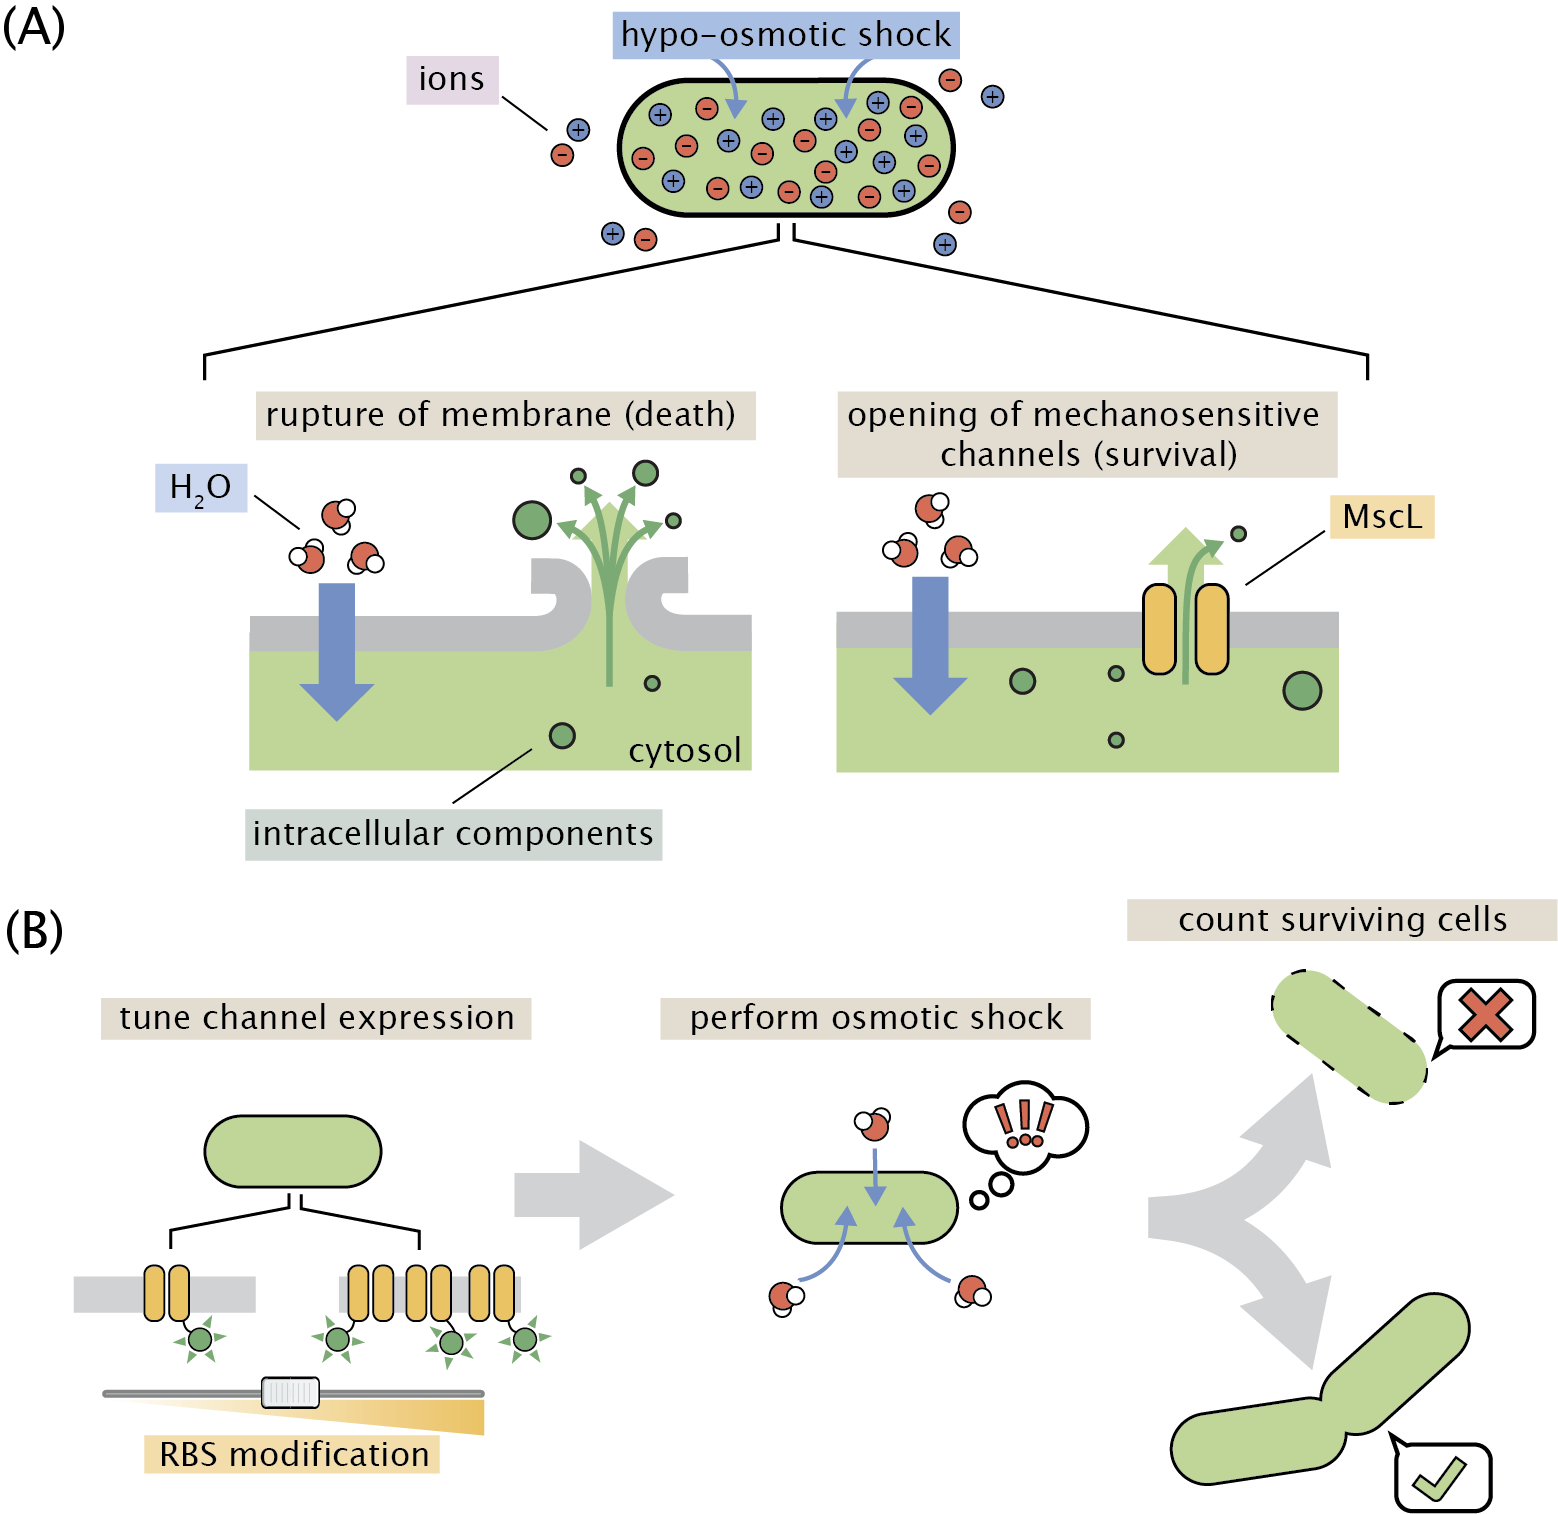
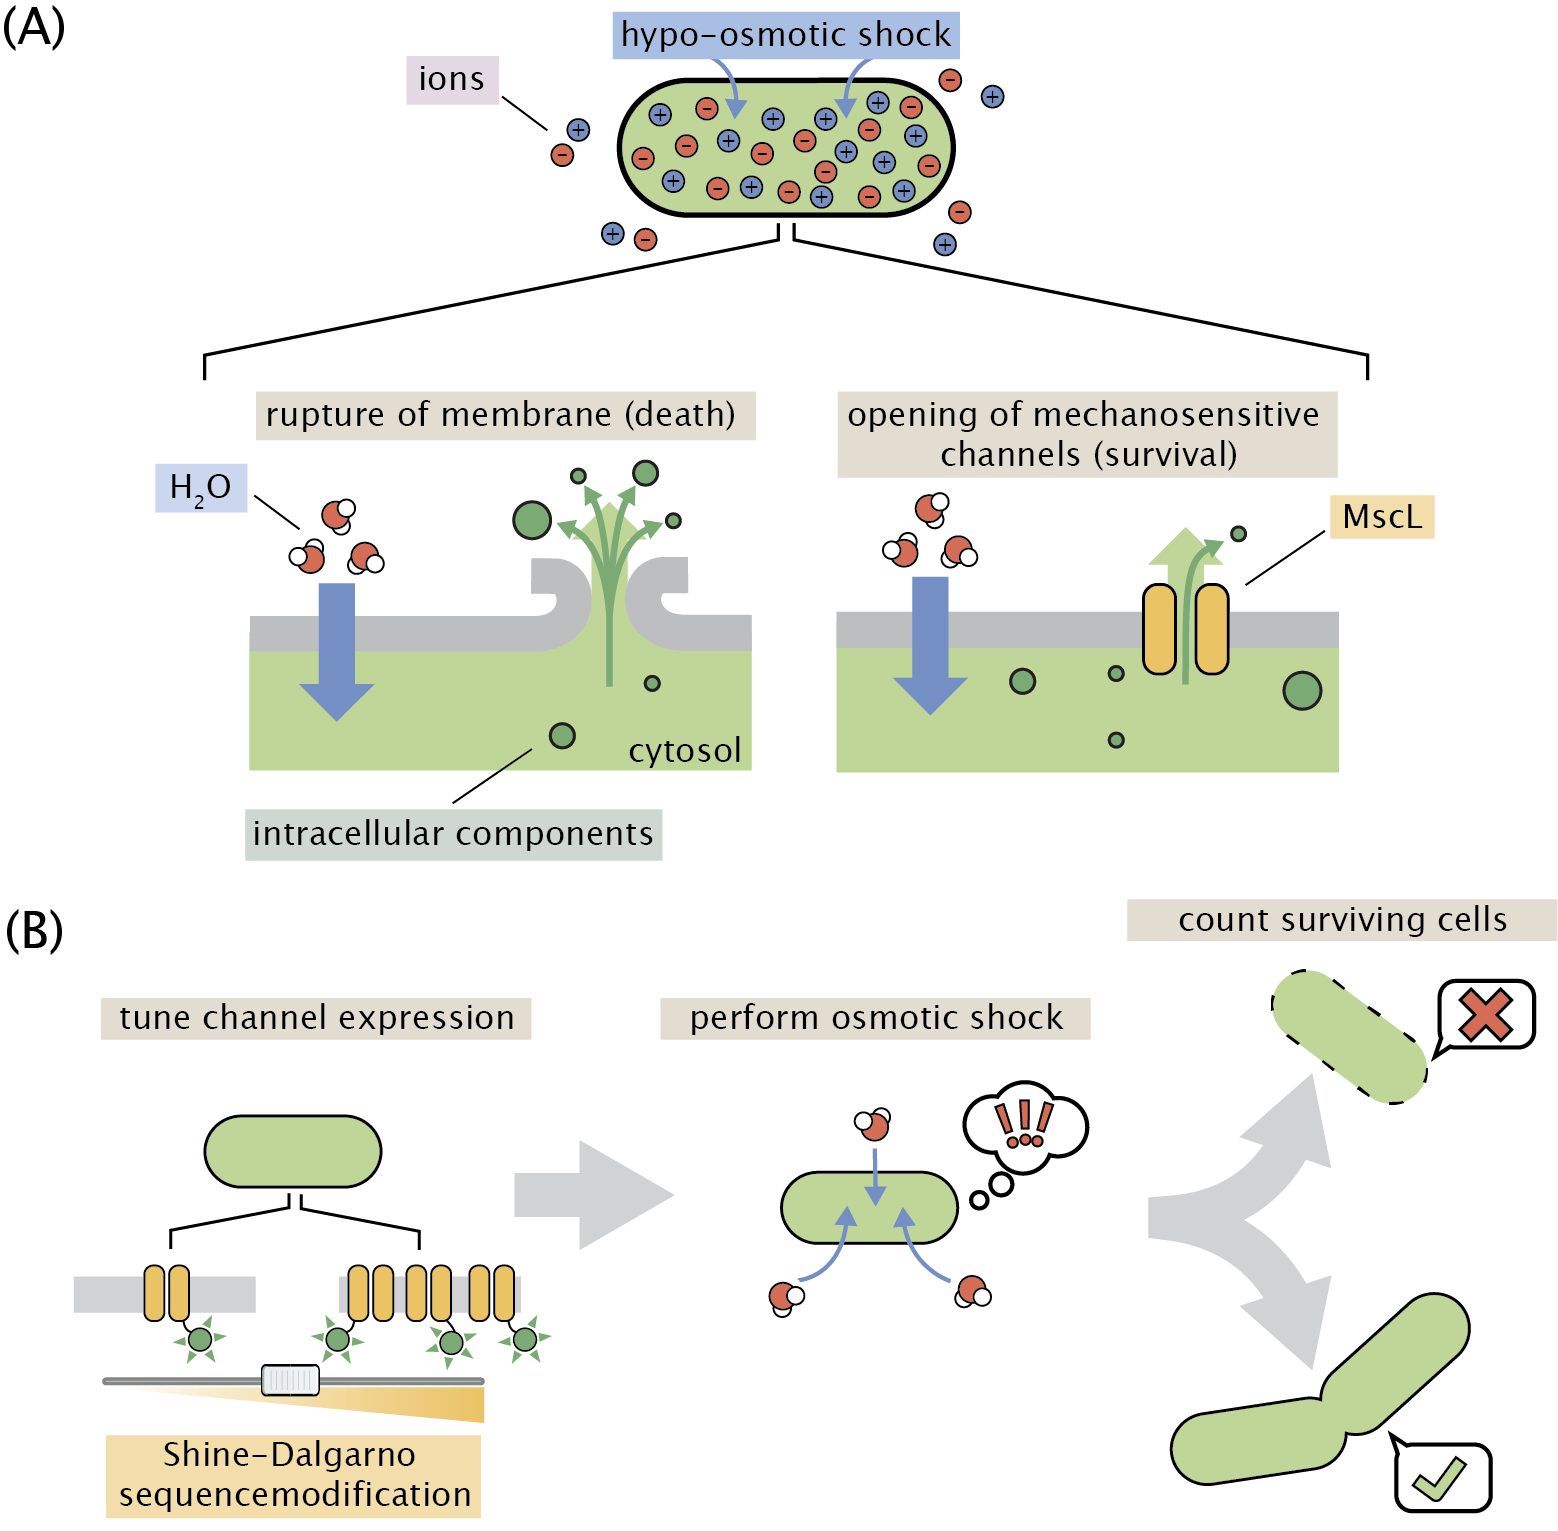
Final draft

diff --git a/doc/section_3_results.md b/doc/section_3_results.md
@@ -1,4 +1,4 @@
-## RESULTS ##
+## Results
 
 ### Quantifying the single-cell MscL copy number ###
 
@@ -20,14 +20,14 @@ in wild-type cells from our measurements. [@bialecka-fornal2012;
 @norman2005].
 
 &nbsp;&nbsp;&nbsp;&nbsp;To modulate the number of MscL channels per cell, we
-developed a series of Shine-Dalgarno sequence mutants which were
+developed a series of mutants which were
 designed to decrease the expression relative to wild-type. These
 changes involved direct alterations of the Shine-Dalgarno sequence as well as the
 inclusion of AT hairpins of varying length directly upstream of the start
-codon ([@Fig:boxplot]A). The six SD sequences used in this work were chosen using the RBS
+codon ([@Fig:boxplot]A). The six Shine-Dalgarno sequences used in this work were chosen using the RBS
 binding site strength calculator from the Salis Laboratory at the
 Pennsylvania State University [@espahborujeni2014;
-@salis2009]. While the designed SD sequence mutations decreased the
+@salis2009]. While the designed Shine-Dalgarno sequence mutations decreased the
 expression relative to wild-type as intended, the distribution of expression is
 remarkably wide spanning an order of magnitude.
 
@@ -60,7 +60,7 @@ remarkably wide spanning an order of magnitude.
  strains is complicated by distorted cell morphology. We observed that as the
  channel copy number decreases, cellular morphology becomes increasingly
  aberrant with filamentous, bulging, and branched cells become markedly
- abundant (Fig S3A). This morphological defect has been observed when
+ abundant (Fig. S3A). This morphological defect has been observed when
  altering the abundance of several species of mechanosensitive channels,
  suggesting that they play an important role in general architectural
  stability [@bialecka-fornal2012; @bialecka-fornal2015]. As these aberrant morphologies can vary
@@ -68,16 +68,16 @@ remarkably wide spanning an order of magnitude.
  becomes a more nuanced endeavor. For example, taking the total MscL copy number for
  these cells could skew the final calculation of survival probability as a
  large but severely distorted cell would be interpreted as having more
- channels than a smaller, wild-type shaped cell (Fig. S2B). To correct for this
+ channels than a smaller, wild-type shaped cell (Fig. S3B). To correct for this
  pathology, we computed the average expression level per unit area for each
  cell and multiplied this by the average cellular area of our standard candle
  strain which is morphologically indistinguishable from wild-type *E. coli*,
  allowing for the calculation of an effective channel copy number. The effect
- of this correction can be seen in Fig S4C and D, which illustrate that
+ of this correction can be seen in Fig. S3C and D, which illustrate that
  there is no other correlation between cell area and channel expression.
 
 &nbsp;&nbsp;&nbsp;&nbsp;Our calculation of the effective channel copy number
-for our suite of SD mutants is shown in [@Fig:boxplot]B. The expression of
+for our suite of Shine-Dalgarno mutants is shown in [@Fig:boxplot]B. The expression of
 these strains cover nearly three orders of magnitude with the extremes
 ranging from approximately four channels per cell to nearly one thousand.
 While the means of each strain are somewhat distinct, the distributions show
@@ -87,7 +87,7 @@ the context of bulk scale experiments but can be accounted for via
 single-cell methods.
 
 ![**Control of MscL expression and calculation of channel
-copy number.** (A) Schematic view the expression modifications performed in this work. The beginning portion of the native *mscL* sequence is shown with the Shine-Dalgarno sequence, spacer region, and start code shaded in red, green, and blue, respectively. The Shine-Dalgarno sequence was modified through the Salis lab Ribosomal Binding Strength calculator [@espahborujeni2014; @salis2009]. The wild-type sequence (MLG910) is shown in black with mutations for the other five RBS mutants highlighted in red. Expression was further modified by the insertion of repetitive `AT` bases into the spacer region, generating hairpins of varying length which acted as a thermodynamic barrier for translation initiation. (B) Variability in effective channel copy number is computed using the
+copy number.** (A) Schematic view the expression modifications performed in this work. The beginning portion of the native *mscL* sequence is shown with the Shine-Dalgarno sequence, spacer region, and start code shaded in red, green, and blue, respectively. The Shine-Dalgarno sequence was modified through the Salis lab Ribosomal Binding Strength calculator [@espahborujeni2014; @salis2009]. The wild-type sequence (MLG910) is shown in black with mutations for the other four Shine-Dalgarno mutants highlighted in red. Expression was further modified by the insertion of repetitive `AT` bases into the spacer region, generating hairpins of varying length which acted as a thermodynamic barrier for translation initiation. (B) Variability in effective channel copy number is computed using the
 standard candle. The boxes represent the interquartile region of the
 distribution, the center line displays the median, and the whiskers
 represent 1.5 times the maximum and minimum of the interquartile region.
@@ -103,8 +103,8 @@ calibration of channel copy number (MLG910) is highlighted in yellow. ](../figs/
  device has been described in depth previously and is briefly described in
  the Materials & Methods [@bialecka-fornal2015]. Using this device, cells
  were exposed to a large hypo-osmotic shock by switching between LB Miller
- medium containing 500mM NaCl and LB media containing no NaCl. All six SD
- modifications shown in Fig 2B (excluding MLG910) were subjected to a hypo-osmotic shock at
+ medium containing 500mM NaCl and LB media containing no NaCl. All six Shine-Dalgarno
+ modifications shown in [@Fig:boxplot]B (excluding MLG910) were subjected to a hypo-osmotic shock at
  controlled rates while under observation. After the application
  of the osmotic shock, the cells were imaged every sixty seconds for four to
  six hours. Survivors were defined as cells which underwent at least two
@@ -121,7 +121,7 @@ the flow cell. After shock, the cells are monitored for several hours and
 surviving cells are identified.](../figs/fig3.pdf){#fig:flow_cell}
 
 &nbsp;&nbsp;&nbsp;&nbsp;Due to the extensive overlap in expression between
-the different SD mutants (see [@Fig:boxplot]), computing the survival
+the different Shine-Dalgarno mutants (see [@Fig:boxplot]B), computing the survival
 probability by treating each mutant as an individual bin obfuscates the
 relationship between channel abundance and survival. To more thoroughly
 examine this relationship, all measurements were pooled together with each
@@ -153,19 +153,19 @@ observed.](../figs/fig4.pdf){#fig:survival_dists}
 
 &nbsp;&nbsp;&nbsp;&nbsp;There are several ways by which the survival
 probability can be calculated. The most obvious approach would be to group
-each individual SD mutant as a single bin and compute the average
+each individual Shine-Dalgarno mutant as a single bin and compute the average
 MscL copy number and the survival probability. Binning by strain is the most
 frequently used approach for such measurements and has provided valuable
 insight into the qualitative relationship of survival on other physiological
 factors [@bialecka-fornal2015; @vandenberg2016]. However the copy number
-distribution for each SD mutant ([@Fig:boxplot]B) is remarkably wide and
+distribution for each Shine-Dalgarno mutant ([@Fig:boxplot]B) is remarkably wide and
 overlaps with the other strains. We argue that this coarse-grained binning
 negates the benefits of performing single-cell measurements as two strains
 with different means but overlapping quartiles would be treated as distinctly
 different distributions. 
 
 &nbsp;&nbsp;&nbsp;&nbsp;Another approach would be to pool all data together,
-irrespective of the SD mutation, and bin by a defined range of channels.
+irrespective of the Shine-Dalgarno mutation, and bin by a defined range of channels.
 Depending on the width of the bin, this could allow for finer resolution of
 the quantitative trend, but the choice of the bin width is arbitrary with the
 *a priori* knowledge that is available. Drawing a narrow bin width can easily
@@ -173,7 +173,7 @@ restrict the number of observed events to small numbers where the statistical
 precision of the survival probability is lost. On the other hand, drawing
 wide bins increases the precision of the estimate, but becomes further
 removed from a true single-cell measurement and represents a population mean,
-even though it may be a smaller population than binning by the SD sequence
+even though it may be a smaller population than binning by the Shine-Dalgarno sequence
 alone. In both of these approaches, it is difficult to extrapolate the
 quantitative trend outside of the experimentally observed region of channel
 copy number. Here, we present a method to estimate the probability of
@@ -211,7 +211,8 @@ p_s = \frac{1}{1 + N_c^{-\beta_1}e^{-\beta_0}}.
 $${#eq:prob}
 In this analysis, we used Bayesian inferential methods to determine the
 most likely values of the coefficients and is described in detail in the
-supplemental information (*Logistic Regression*).
+supplemental information (*gression*).
+
 &nbsp;&nbsp;&nbsp;&nbsp; The results of the logistic regression are shown in
 [@Fig:survival]. We see a slight rightward shift the survival probability
 curve under fast shock relative to the slow shock case, reaffirming the
@@ -222,13 +223,14 @@ for MscL alone. This suggests that MscL responds differently to different
 rates of shock, highlighting the need for further study of rate dependence
 and the coordination between different species of mechanosensitive channels.
 [@Fig:survival] also shows that several hundred channels are required to
-provide appreciable protection from osmotic shock. The results from the
-logistic regression are showed as continuous colored curves. The individual
+provide appreciable protection from osmotic shock. For a survival probability of 80%, a cell must have
+approximately 500 to 700 channels per cell for a fast and slow shock,
+respectively. The results from the logistic regression are showed as continuous colored curves. The individual
 cell measurements separated by survival and death are shown at the top and
 bottom of each plot, respectively, and are included to provide a sense of
-sampling density. For a survival probability of 80%, a cell must have
-approximately 500 to 700 channels per cell for a fast and slow shock,
-respectively. Over the explored range of MscL copy number, we observed a
+sampling density. 
+
+&nbsp;&nbsp;&nbsp;&nbsp;Over the explored range of MscL copy number, we observed a
 maximum of 80\% survival for any binning method. The remaining 20\% survival
 may be attained when the other species of mechanosensitive channels are
 expressed alongside MscL. However, it is possible that the flow cell method
@@ -246,7 +248,7 @@ copy number regime.
 
 &nbsp;&nbsp;&nbsp;&nbsp;Thus far, we’ve dictated that for a given rate of
 osmotic shock (i.e. "fast" or "slow"), the survival probability is dependent
-only on the number of channels. In Fig. S3, we show the result of including
+only on the number of channels. In Fig. S7, we show the result of including
 other predictor variables, such as area and shock rate alone. In such cases,
 including other predictors resulted in pathological curves showing that
 channel copy number is the most informative out of the available predictor
@@ -260,7 +262,7 @@ the most probable survival probability from a one-dimensional logistic
 regression. Shaded regions represent the 95\% credible regions. Points at the
 top and bottom of plots represent individual cell measurements which survived
 and perished, respectively. The red and black points correspond to the survival
-probability estimated via binning by SD sequence and binning by groups of 50
+probability estimated via binning by Shine-Dalgarno sequence and binning by groups of 50
 channels per cell, respectively. Horizontal error bars represent the standard
 error of the mean from at least 25 measurements. Vertical error bars
 represent the certainty of the probability estimate given $n$ survival events

diff --git a/doc/section_2_introduction.md b/doc/section_2_introduction.md
@@ -1,5 +1,6 @@
 
-## INTRODUCTION
+## Introduction
+
  &nbsp;&nbsp;&nbsp;&nbsp; Changes in the extracellular osmolarity can be a fatal event for the bacterial
 cell. Upon a hypo-osmotic shock, water rushes into the cell across
 the membrane, leaving the cell with no choice but to equalize the pressure.
@@ -22,7 +23,7 @@ processes play in the greater context of physiology [@bavi2016;
 mechanosensitive channel of large conductance (MscL) is the most abundant
 and the best characterized. This channel has a large conductance (3 nS) and
 mediates the flux of water molecules across the membrane via a ~3 nm wide
-pore in the open state [@cruickshank1997, @haswell2011]. Molecular dynamics
+pore in the open state [@cruickshank1997; @haswell2011]. Molecular dynamics
 simulations indicate that a single open MscL channel permits the flux of $4
 \times 10^9$ water molecules per second, which is an order of magnitude
 larger than a single aquaporin channel (BNID 100479) [@louhivuori2010; @milo2010]. This suggests that having only a few channels per cell could be
@@ -50,7 +51,7 @@ a hypo-osmotic shock was assessed in bulk plating assays which rely on
 serial dilutions of a shocked culture followed by counting the number of
 resulting colonies after incubation. Such bulk assays have long been the
 standard for querying cell viability after an osmotic challenge. While
-bulk-scale experiments have been highly informative, they reflect only the
+they  jhave been highly informative, they reflect only the
 mean survival rate of the population, obfuscating the variability in
 survival of the population. The stochastic nature of gene expression results
 in a noisy distribution of MscL channels rather than a single value, meaning

diff --git a/doc/appendix_D_logistic_regression.md b/doc/appendix_D_logistic_regression.md
@@ -63,7 +63,7 @@ $${#eq:logistic_posterior}
 
 As this posterior distribution is not solvable analytically, we used Markov chain Monte Carlo to draw samples out of this distribution, using the log of the effective channel number as described in the main text. The posterior distributions for $\beta_0$ and $\beta_1$ for both slow and fast shock rate data can be seen in [@Fig:logistic_posterior_distributions]
 
-![**Posterior distributions for logistic regression coefficients evaluated for fast and slow shock rates.** (A) Kernel density estimates of the posterior distribution for $\beta_0$ for fast (blue) and slow (purple) shock rates. (B) Kernel density estimates of posterior distribution for $\beta_1$.](../figs/figSX4_logistic_posterior_distributions.png ){#fig:logistic_posterior_distributions}
+![**Posterior distributions for logistic regression coefficients evaluated for fast and slow shock rates.** (A) Kernel density estimates of the posterior distribution for $\beta_0$ for fast (blue) and slow (purple) shock rates. (B) Kernel density estimates of posterior distribution for $\beta_1$.](../figs/figS4.pdf ){#fig:logistic_posterior_distributions}
 
 ### A Bayesian interpretation of $\beta_0$ and $\beta_1$ ###
 The assumption of a linear relationship between the log-odds of survival and the predictor variable $N_c$ appears to be arbitrary and is presented without justification.

diff --git a/doc/section_4_discussion.md b/doc/section_4_discussion.md
@@ -23,7 +23,7 @@ segments generates an extraordinarily diverse antibody repertoire
 DNA replication is intrinsically tied to cell senescence [@herbig2004;
 @victorelli2017], to name just a few of many such examples.
 
-&nbsp;&nbsp;&nbsp;&nbsp;This by no means that we are “finished” with any of
+&nbsp;&nbsp;&nbsp;&nbsp;This is by no means that we are ``finished” with any of
 these topics. Rather, it's quite the opposite in the sense that having a
 handle on the biophysical knobs that tune the behavior opens the door to a
 litany of new scientific questions. In the case of mechanosenstaion and
